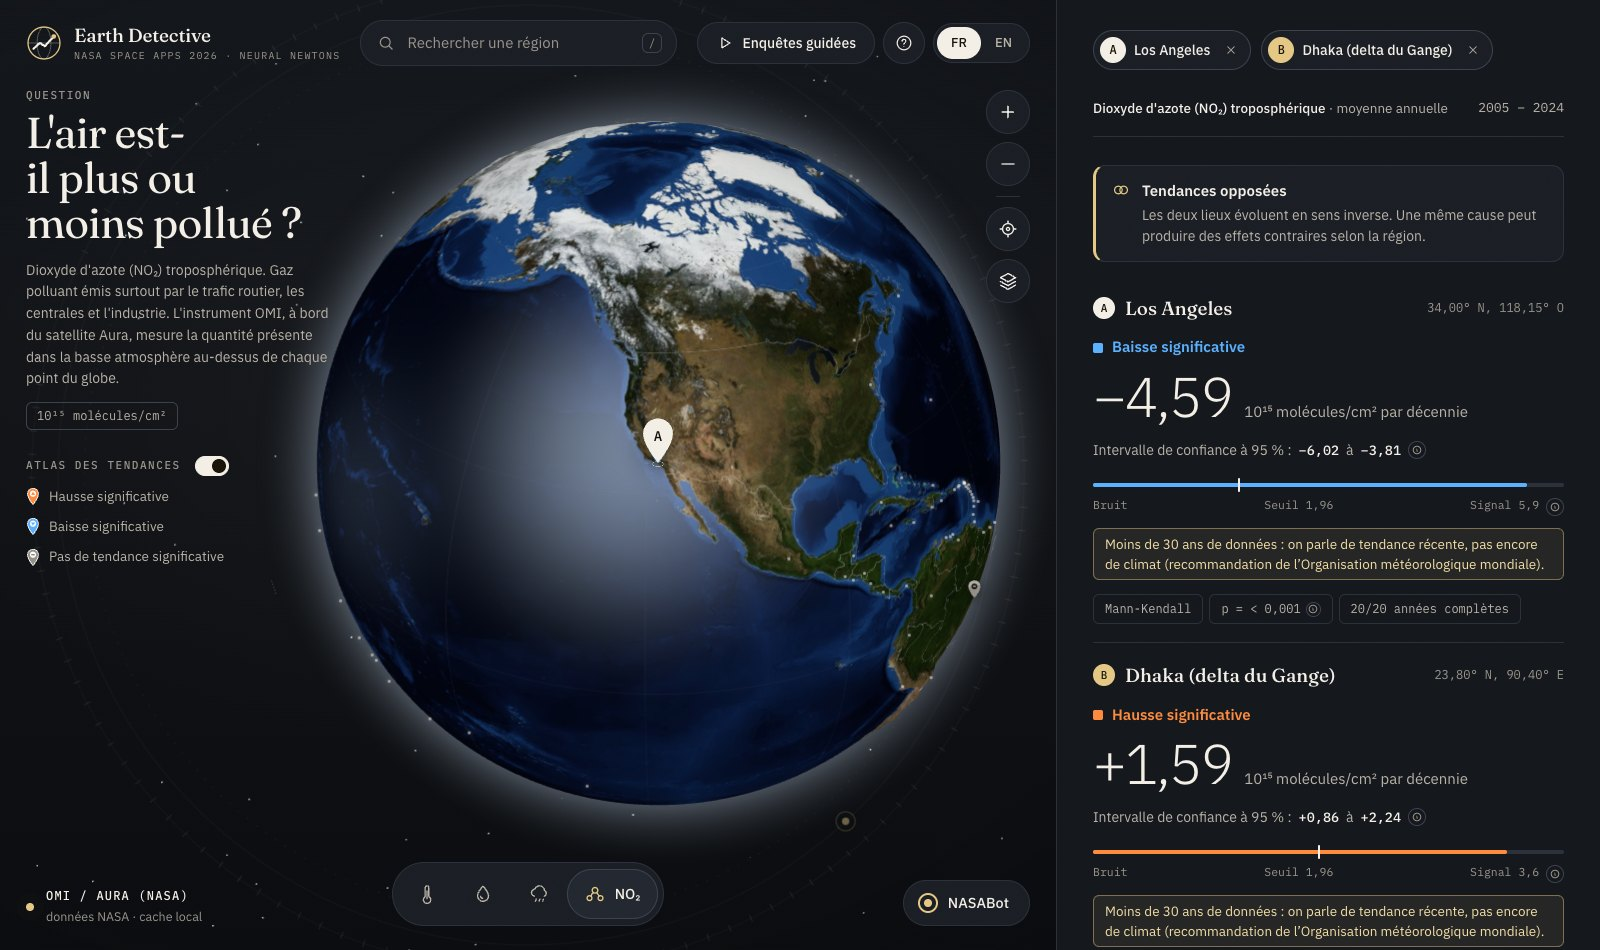
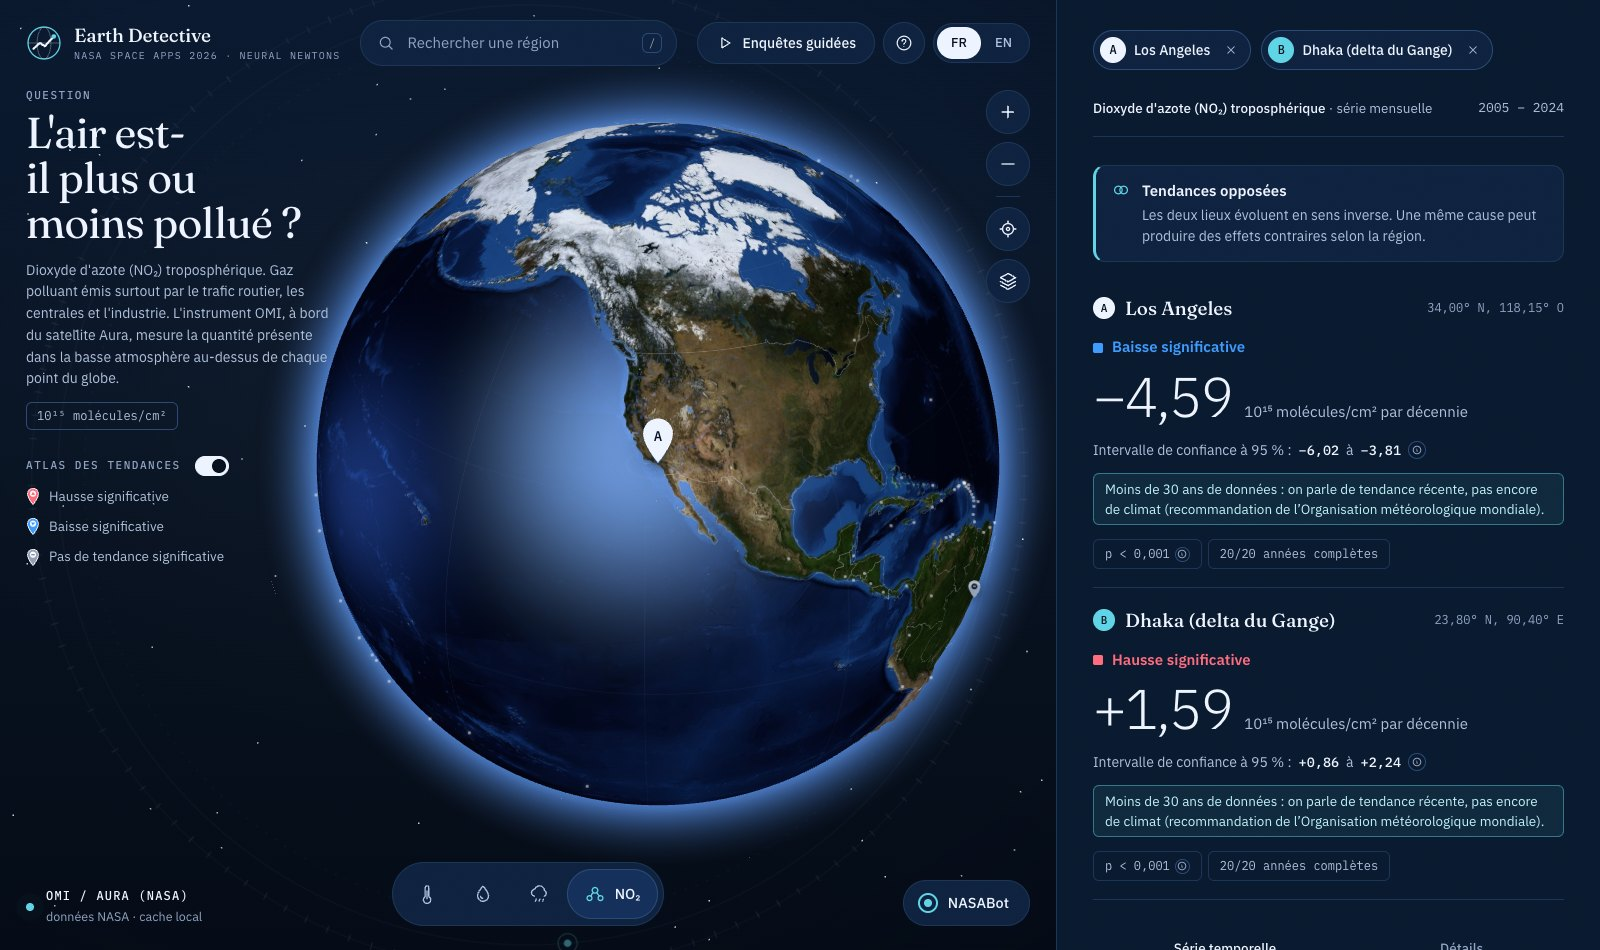
docs: fiche de branchement de l'agent, doc et captures à jour (palette bleue, série temporelle)

diff --git a/docs/AGENT.md b/docs/AGENT.md
@@ -1,0 +1,87 @@
+# Brancher l'agent IA
+
+L'application appelle l'agent par **deux fonctions seulement**, dans `src/trend/advisor.py`. Tant qu'elles gardent la même
+signature, rien d'autre n'est à modifier : ni le serveur, ni le front.
+
+## 1. Les deux fonctions (contrat, `docs/CONTRAT.md` section 2)
+
+```python
+from trend.schemas import ResultatTendance, Suggestion
+
+def suggerer(question: str) -> Suggestion: ...
+def expliquer(resultat: ResultatTendance) -> str: ...
+```
+
+| Fonction | Reçoit | Renvoie | Utilisée quand |
+|---|---|---|---|
+| `suggerer` | La question libre de l'utilisateur, ex. « La pollution baisse-t-elle à Pékin ? » | `Suggestion(variable_ids, region_id, explication, source)` | Question tapée dans NASABot ; l'app ouvre ensuite la variable et la région proposées. |
+| `expliquer` | Le `ResultatTendance` affiché (pente, IC, p-value, période, région…) | Un texte de 3 à 5 phrases en langage simple | Bouton « Que montre ce résultat ? » de NASABot. |
+
+`Suggestion` :
+
+- `variable_ids` : **uniquement** des ids du catalogue : `t2m`, `qv2m`, `precip`, `no2` (le premier est ouvert) ;
+- `region_id` : un id du catalogue (`paris`, `po`, `pekin`, `los_angeles`, `dhaka`, `delhi`, `sahel`, `svalbard`, `espagne`, `amazonie`, `france`) ou `None` ;
+- `explication` : une ou deux phrases affichées à l'utilisateur ;
+- `source` : `"ia"` si la réponse vient du modèle, `"mots_cles"` pour le repli.
+
+Le catalogue complet se lit avec `trend.catalog.charger_variables()` et `charger_regions()` : c'est ce qu'il faut donner
+au modèle, rien de plus. Attention : pas de `no2` pour `svalbard` (`Region.variables_suggerees`).
+
+## 2. Règles à respecter
+
+1. **Ne jamais lever d'exception** : en cas de clé absente, de réseau coupé ou de réponse invalide, revenir aux règles actuelles.
+2. **Aucun chiffre inventé** : le texte de `expliquer` ne cite que des valeurs présentes dans `ResultatTendance`
+   (`pente_decennie`, `ic95`, `p_value`, `changement_total`, `debut`, `fin`, `n_annees`, `periode_courte`, `sens`, `significatif`).
+3. **Vocabulaire** : « tendance significative (au seuil de 5 %) », jamais « prouvé » ; pas de cause affirmée.
+4. **Clé d'API** : uniquement dans une variable d'environnement (fichier `.env`, ignoré par git). Jamais dans le code.
+5. **Temps de réponse** : prévoir un délai maximal (5 s environ) puis le repli, pour que la démo ne reste jamais bloquée.
+
+## 3. Structure conseillée
+
+Les fonctions actuelles (règles et mots-clés, sans réseau) deviennent le repli :
+
+```python
+import os
+
+def suggerer(question: str) -> Suggestion:
+    if os.environ.get("CLE_API_AGENT"):          # nom de variable au choix
+        try:
+            return _suggerer_ia(question)          # appel au modèle, validé contre le catalogue
+        except Exception:
+            pass
+    return _suggerer_regles(question)              # = la fonction suggerer actuelle, renommée
+
+def expliquer(resultat: ResultatTendance) -> str:
+    if os.environ.get("CLE_API_AGENT"):
+        try:
+            return _expliquer_ia(resultat)
+        except Exception:
+            pass
+    return _expliquer_regles(resultat)             # = la fonction expliquer actuelle, renommée
+```
+
+Dans `_suggerer_ia`, vérifier la réponse du modèle avant de la renvoyer : ids hors catalogue retirés, combinaison
+indisponible remplacée. Si rien ne reste, repli sur les règles.
+
+## 4. Si l'agent part de la branche `ashneel`
+
+Son `analyse_environment(data: dict)` attend un dictionnaire de statistiques et renvoie une `EnvironmentalAnalysis`.
+Pour l'utiliser dans `expliquer` :
+
+- construire `data` à partir du `ResultatTendance` (région, période, variable, unité, pente par décennie, IC 95 %,
+  p-value, significatif, changement total) ;
+- renvoyer `executive_summary` (et éventuellement `limitations`) comme texte ;
+- garder le repli sur les règles si l'appel échoue.
+
+Ne pas fusionner la branche telle quelle : elle part d'un ancien `main` et supprimerait le spike et `schemas.py`.
+Copier seulement `src/agent/` dans le projet.
+
+## 5. Vérifier
+
+```bash
+PYTHONPATH=src:app .venv/bin/python -m pytest -q tests/test_advisor.py   # doit passer SANS clé (repli)
+PYTHONPATH=src .venv/bin/python app/api.py                                 # puis NASABot dans http://localhost:8000
+```
+
+Questions de test : « La pollution baisse-t-elle à Pékin ? », « Il pleut moins au Sahel ? », « NO2 au Svalbard »,
+puis « Que montre ce résultat ? » sur un verdict affiché.

diff --git a/docs/AUDIT.md b/docs/AUDIT.md
@@ -38,20 +38,22 @@
 - **Assistant sans clé d'API** : la démo ne doit dépendre ni du réseau ni d'un crédit. Un modèle de langage peut être branché derrière les mêmes fonctions `suggerer` / `expliquer`.
 - **« Significatif », jamais « prouvé »**. Sous 30 ans de données, avertissement de l'OMM. Un résultat non significatif est présenté comme une information, pas comme un échec.
 
-## 4. Identité visuelle « Observatoire »
+## 4. Identité visuelle « Océan » et série temporelle
 
-Le skill de design proposait une police Exo et une palette verte « bio ». Choix écartés : Exo est un cliché science-fiction ; le vert évoque l'écologie militante (risque d'écoblanchiment) et brouillerait les couleurs de verdict.
+Le skill de design proposait une police Exo et une palette verte « bio » : écartées (cliché science-fiction ; le vert brouille les couleurs de verdict). Une première passe graphite et laiton avec l'orange pour les hausses a été abandonnée à la demande de l'équipe.
 
 | Élément | Choix | Raison |
 |---|---|---|
 | Titres | Fraunces (serif éditorial) | Ton d'atlas ou de revue scientifique, à l'opposé des interfaces génériques. |
-| Texte, chiffres | IBM Plex Sans, IBM Plex Mono | Dessinées pour la documentation technique, chiffres nets et signes lisibles au projecteur. |
-| Fond | Graphite chaud (#0F1114 à #232830) | Neutre : le globe et les verdicts portent la couleur. |
-| Accent | Laiton (#E4C784) | Instrument d'observation ; réservé à la marque, au lieu B et aux repères. |
-| Verdicts | Orange (#FF8A3D) hausse, bleu (#5AB0FF) baisse, gris non significatif | Couple orange / bleu lisible par les daltoniens ; mêmes couleurs partout ; jamais « bien / mal ». |
+| Texte, chiffres | IBM Plex Sans, IBM Plex Mono | Dessinées pour la documentation technique, signes « + » et « − » lisibles au projecteur. |
+| Fond | Bleu marine (#07111F à #15305A) | Sobre ; le globe et les verdicts portent la couleur. |
+| Accent | Cyan (#5FD4E6) | Marque, lieu B, sélections ; jamais un verdict. |
+| Verdicts | Rouge (#FF6B7D) hausse, bleu (#3D9BFF) baisse, gris non significatif | Convention des cartes de température ; lisible par les daltoniens (rouge / bleu) ; mêmes couleurs partout. |
 | Effets | Panneaux plats, filets fins, ni verre dépoli ni lueur | Moins de bruit visuel, plus de lisibilité. |
 
 Contrastes du texte sur les fonds, mesurés au critère WCAG : tous au-dessus de 4,5 pour 1.
+
+**Série temporelle** : un seul graphique mensuel, un bouton « Données brutes / Sans les saisons » et une case « Afficher la pente ». Les onglets en trop (calendrier, stabilité, éventail de pentes, jauge « bruit / signal ») ont été retirés pour s'en tenir à ce que demande le défi.
 
 ## 5. Risques et limites connus
 
@@ -61,7 +63,7 @@ Contrastes du texte sur les fonds, mesurés au critère WCAG : tous au-dessus de
 - **`saisons_retirees: false`** affiche les moyennes annuelles réelles : aucune vue ne montre le cycle saisonnier brut.
 - **Branche `ashneel`** non fusionnée : son prompt système peut servir si l'équipe veut un modèle de langage derrière `expliquer`.
 - **Bundle du front** : 4,5 Mo (textures de la Terre incluses), versionné pour éviter Node.js sur le poste de démo.
-- Rien n'a été poussé sur GitHub : tout est sur la branche locale `test`.
+- L'agent IA sera branché par un autre membre de l'équipe : voir `docs/AGENT.md`.
 
 ## 6. Prochaines étapes conseillées
 

diff --git a/README.md b/README.md
@@ -14,7 +14,7 @@ monter ici et baisser là-bas.
 |---|---|
 | Choisir des variables Earth science | 4 variables de 3 sources NASA : température et humidité (MERRA-2), pluie (GPM IMERG), dioxyde d'azote (OMI). Définitions simples pour chacune. |
 | Les obtenir pour une région | 11 régions (villes, Arctique, Sahel, Amazonie…), moyennes de zone calculées par Giovanni / Harmony, mises en cache. |
-| Tracer la série temporelle | Moyennes annuelles avec droite et éventail de pentes, mois par mois sans les saisons, calendrier des anomalies. |
+| Tracer la série temporelle | Série mensuelle en « données brutes » ou « sans les saisons », avec la droite de tendance en option. |
 | Dire s'il y a une tendance, de combien, si elle est significative | Test de Mann-Kendall, pente de Sen par décennie, intervalle de confiance à 95 %, contrôles (Hamed et Rao, test saisonnier, régression). |
 | Public lycéen et grand public | Verdict en une phrase (« En clair : il fait plus chaud »), avertissement sous 30 ans de données, explication de la p-value. |
 | Parcours guidé, démonstrations | 4 enquêtes guidées pas à pas, écrites sans conclusion chiffrée : le verdict vient toujours des données. |
@@ -58,6 +58,7 @@ data/demos/             Enquêtes guidées (YAML)
 data/cache/             86 séries mensuelles NASA (43 moyennes de zone, 43 points)
 scripts/build_cache.py  Précalcul du cache depuis Giovanni
 tests/                  22 tests (moteur, données, assistant, serveur)
+docs/AGENT.md           Où et comment brancher l'agent IA
 ```
 
 Règle de conception : **aucun chiffre affiché ne vient d'ailleurs que du moteur statistique**, et l'application
@@ -77,6 +78,7 @@ PYTHONPATH=src:app .venv/bin/python -m pytest -q
 - `docs/data_choices.md` : chaîne de traitement des données et tableau des tendances.
 - `docs/methods.md` : méthode statistique, limites et références.
 - `docs/AUDIT.md` : état du projet, choix de finition, risques connus.
+- `docs/AGENT.md` : interface à respecter pour brancher l'agent IA.
 
 ## Données et crédits
 

diff --git a/docs/methods.md b/docs/methods.md
@@ -47,7 +47,7 @@ Ce test ne suppose pas que les données suivent une loi normale. Il ne mesure qu
 - Affichage : pente **par décennie** (pente annuelle × 10) ; changement total = pente × durée analysée.
 - Droite de tendance : pente de Sen, ordonnée à l'origine de Conover (médiane des résidus), tracée sur l'index mensuel.
 
-## 6. Contrôles affichés dans l'onglet « Preuves »
+## 6. Contrôles affichés dans l'onglet « Détails »
 
 | Test | Rôle |
 |---|---|
@@ -62,7 +62,7 @@ Ces contrôles ne changent pas le verdict ; ils permettent de juger sa robustess
 - **Moins de 30 ans** de données : avertissement « tendance récente, pas encore de climat » (recommandation de l'OMM).
 - **Moins de 5 ans** : pas d'analyse (`ValueError`, message clair dans l'interface).
 - **Non significatif** : « pas de tendance significative sur cette période ». Cela ne veut pas dire « stable » ;
-  une période plus longue peut trancher (onglet « Stabilité » : le test relancé pour chaque année de départ).
+  une période plus longue peut trancher (la route `/api/stabilite` relance le test pour chaque année de départ).
 
 ## 8. Limites
 
